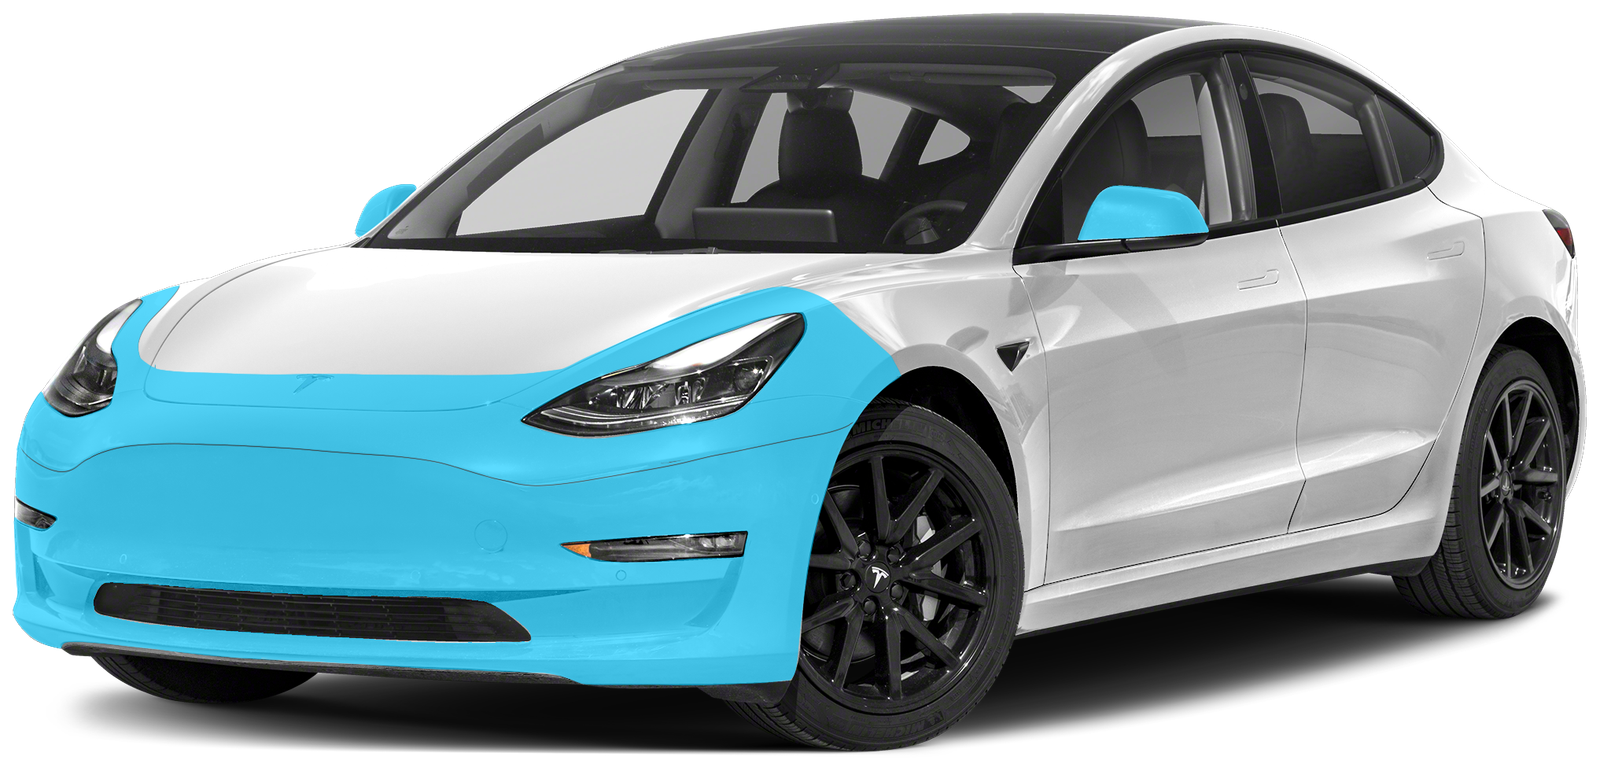
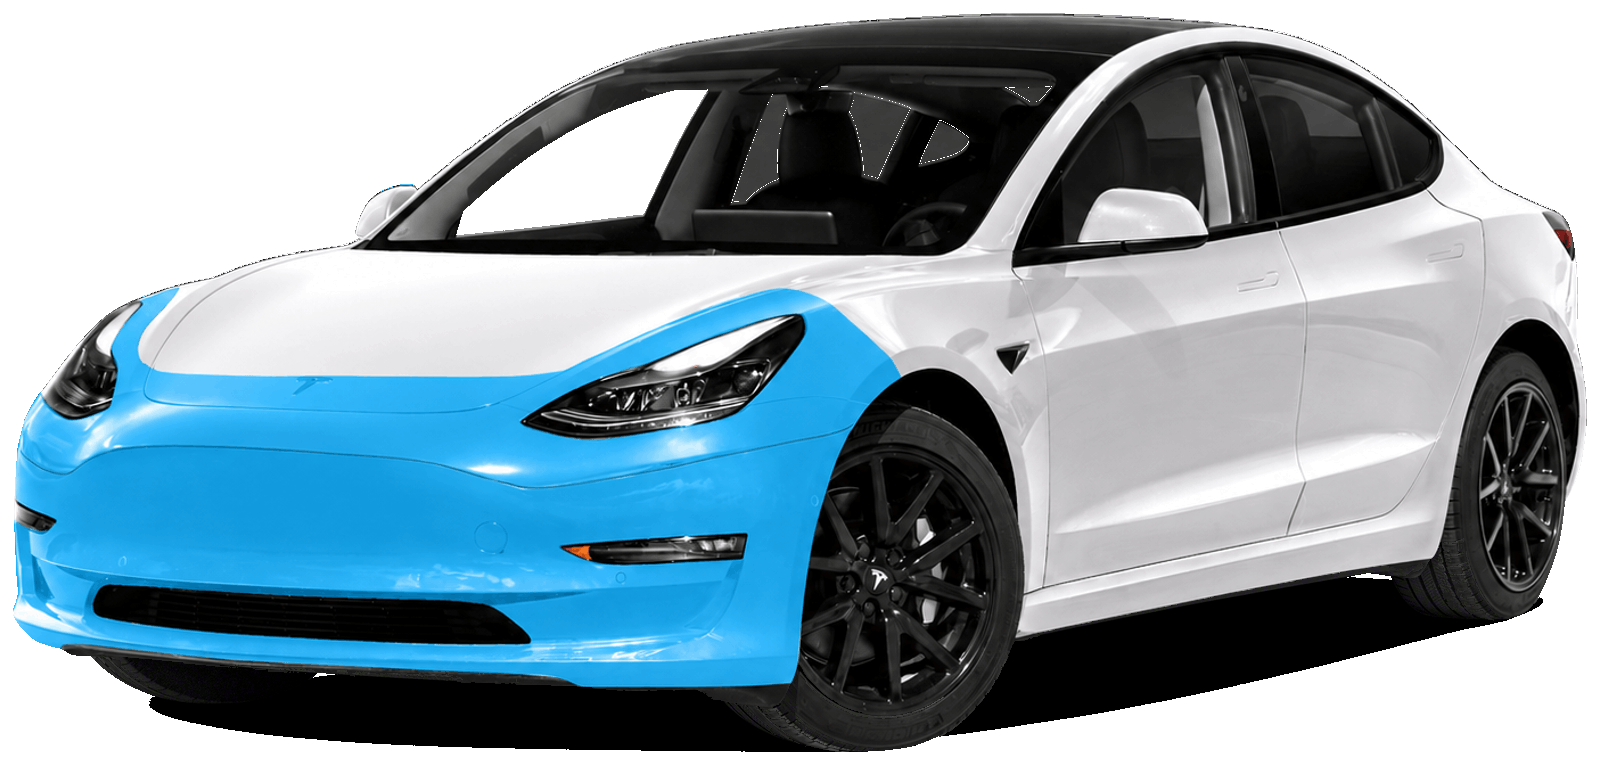
Swap in the corrected Shield and Track PPF coverage renders

diff --git a/src/data/catalog.ts b/src/data/catalog.ts
@@ -639,9 +639,8 @@ export const catalog: ServiceCategory[] = [
         tagline: "Near-total coverage for the panels that see the most road.",
         // Doors are not offered at this tier. Partial door coverage isn't
         // something we do, so it can't be listed — full doors are Full
-        // Protection. NOTE: the Track coverage render still shows film on
-        // the front doors and needs replacing; see the launch shot list.
-        features: ["Full hood, fenders & bumper", "Roof, A-pillars & mirrors"],
+        // Protection.
+        features: ["Full hood, fenders & bumper", "Roof, A-pillars & mirrors", "Rocker panels"],
         pricing: { type: "starting-at", amount: 3499 },
         depositPercent: 25,
       },
